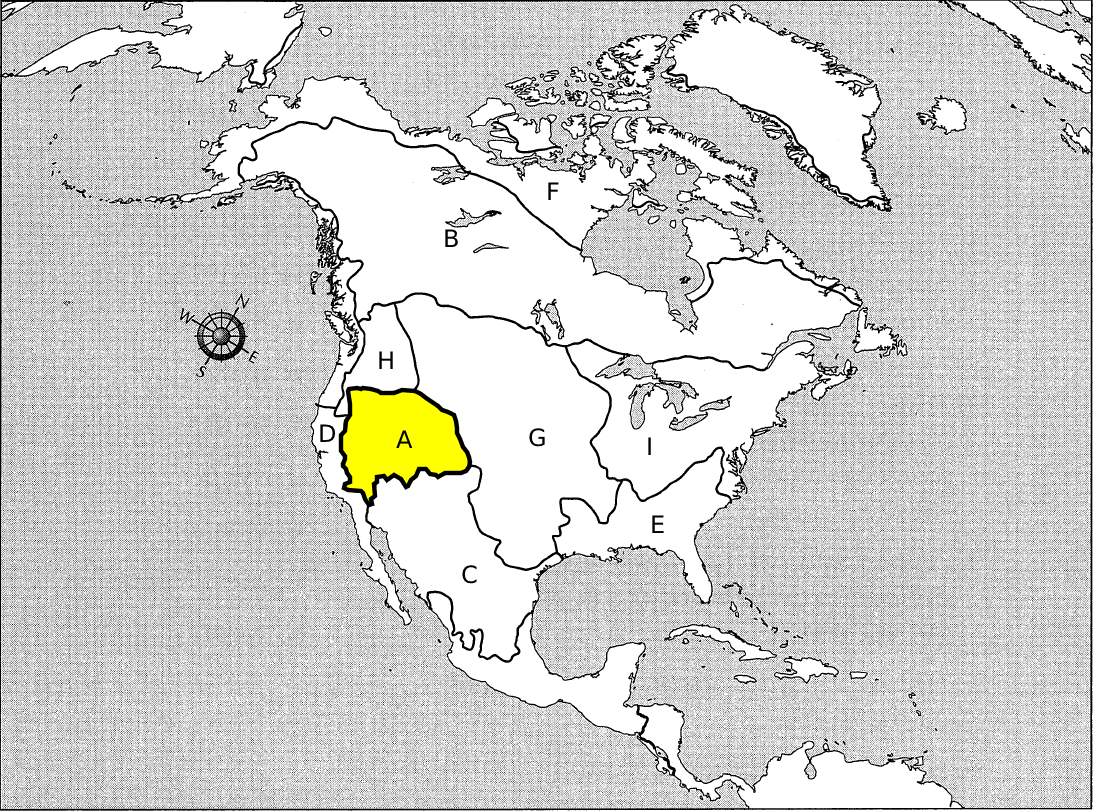
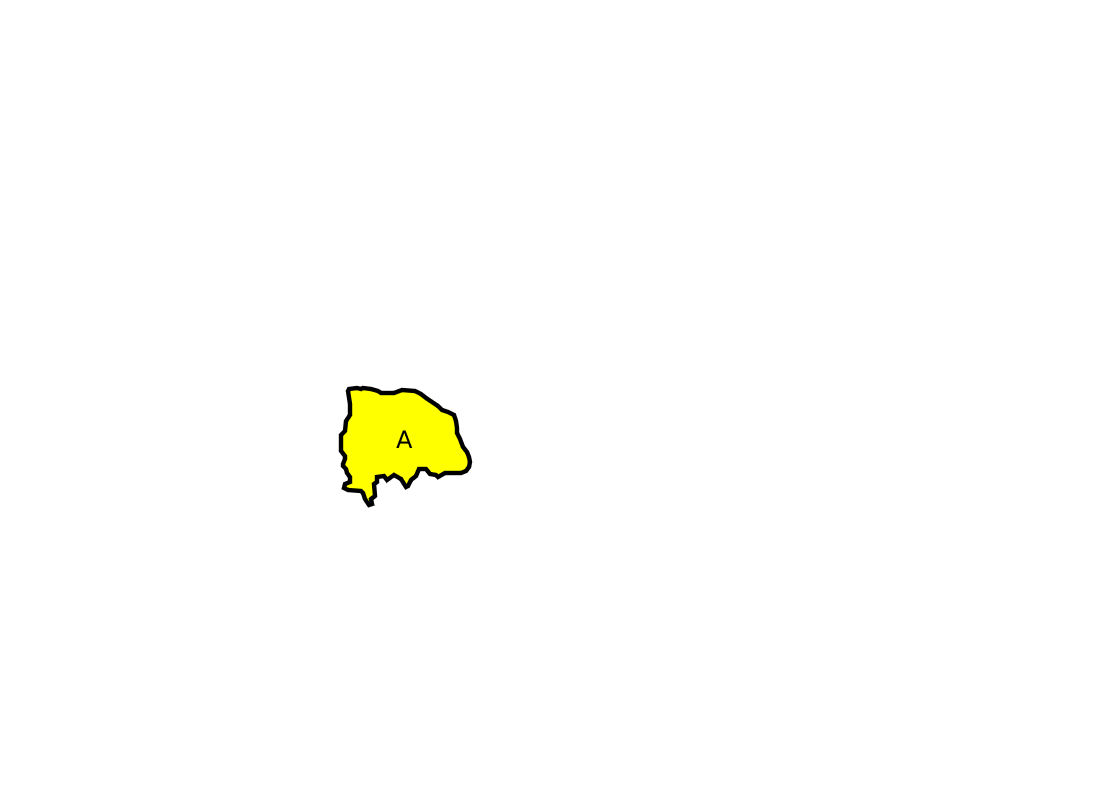
Changing images of selected locations
This update changed from using images of the whole map with the location selected to using the base map as a background to transparent PNGs of selected locations.

diff --git a/Map_quiz_6/Map_quiz_6.html b/Map_quiz_6/Map_quiz_6.html
@@ -3,27 +3,28 @@
   <!--  -->
 <head>
   <meta charset="utf-8">
-  <meta name="veiwport" content="width=device.width, initial-scale=1">
+  <meta name="viewport" content="width=device-width, initial-scale=1.0">
   <link rel="stylesheet" href="../Map_quiz_style.css">
   <title>Map 6: North American Culture Areas</title>
 </head>
 
 <body>
-  <h1>Geography Quiz 6: Civilizations of the Americas</h1>
-  <p><span id="modeIndicator"></span> Instructions:</p>
+  <h1 class="left-space">Geography Quiz 6: Civilizations of the Americas</h1>
+  <p class="left-space"><span id="modeIndicator"></span> Instructions:</p>
   <ul>
     <li>Press 1 through 9 and 0 to select a question, 0 being question 10</li>
     <li>Press A through J to select a location</li>
     <li>Press Enter to pair the selected question with the selected location</li>
   </ul>
-  <div id="Map">
-    <img id ="map" src="./Images/Base Map.png" alt="Map of Ancient World Civilizations">
+  <div id="Map" class="imageWrapper">
+    <img id ="map" class="overlayImage" src="./Images/Base Map.png" alt="Map of Ancient World Civilizations">
+	<img id="selLoc" class="overlayImage" src="" alt="">
   </div>
   
-  <p id="Selected Question"><b>Selected Question: </b><span id="questionText"></span></p>
-  <p id="Selected Location"><b>Selected Location: </b><span id="locationText"></span></p>
+  <p id="Selected Question" class="left-space"><b>Selected Question: </b><span id="questionText"></span></p>
+  <p id="Selected Location" class="left-space"><b>Selected Location: </b><span id="locationText"></span></p>
   
-  <div id="quiz">
+  <div id="quiz" class="left-space">
     <p id="q1"><span id="q1 num">1. </span>_<span id="q1 answer"></span>_<span id="q1 grade"></span></p>
     <p id="q2"><span id="q2 num">2. </span>_<span id="q2 answer"></span>_<span id="q2 grade"></span></p>
     <p id="q3"><span id="q3 num">3. </span>_<span id="q3 answer"></span>_<span id="q3 grade"></span></p>
@@ -98,10 +99,10 @@
   
   // Changes Map image to one that highlights the selected location; changes image's alt text; displays image description
   function changeMap(indexNum) {
-    var map = document.getElementById("map");
+    var map = document.getElementById("selLoc");
     if (indexNum == -1) {
-      map.src = "./Images/Base Map.png";
-      map.alt = "Base Map";
+      map.src = "";
+      map.alt = ""; // Setting alt to "" prevents the broken image icon from being displayed.
       document.getElementById("locationText").innerHTML = "No location is selected";
     }
     else {
@@ -170,7 +171,6 @@
     switch (event.keyCode) {
       // Pair selectedQuestion with selectedLocation
       case 13: // Enter
-        console.log("Before: " + isAnsCorrect);
         if (selectedQuestion != -1) {
           if (selectedLocation == -1) {
             document.getElementById(qArray[selectedQuestion].qAnsId).innerHTML = "";
@@ -184,7 +184,6 @@
             reportCorrect(selectedQuestion);
           }
         }
-        console.log("After: " + isAnsCorrect);
         break;
 
       // Selecting the active question with 1-9, 0 for 1-10

diff --git a/Map_quiz_6/Map_quiz_6_Study.html b/Map_quiz_6/Map_quiz_6_Study.html
@@ -3,27 +3,28 @@
   <!--  -->
 <head>
   <meta charset="utf-8">
-  <meta name="veiwport" content="width=device.width, initial-scale=1">
+  <meta name="viewport" content="width=device-width, initial-scale=1.0">
   <link rel="stylesheet" href="../Map_quiz_style.css">
   <title>Map 6: North American Culture Areas</title>
 </head>
 
 <body>
-  <h1>Geography Quiz 6: Civilizations of the Americas</h1>
-  <p><span id="modeIndicator"></span> Instructions:</p>
+  <h1 class="left-space">Geography Quiz 6: Civilizations of the Americas</h1>
+  <p class="left-space"><span id="modeIndicator"></span> Instructions:</p>
   <ul>
     <li>Press 1 through 9 and 0 to select a question, 0 being question 10</li>
     <li>Press A through J to select a location</li>
     <li>Press Enter to pair the selected question with the selected location</li>
   </ul>
-  <div id="Map">
-    <img id ="map" src="./Images/Base Map.png" alt="Map of Ancient World Civilizations">
+  <div id="Map" class="imageWrapper">
+    <img id ="map" class="overlayImage" src="./Images/Base Map.png" alt="Map of Ancient World Civilizations">
+	<img id="selLoc" class="overlayImage" src="" alt="">
   </div>
   
-  <p id="Selected Question"><b>Selected Question: </b><span id="questionText"></span></p>
-  <p id="Selected Location"><b>Selected Location: </b><span id="locationText"></span></p>
+  <p id="Selected Question" class="left-space"><b>Selected Question: </b><span id="questionText"></span></p>
+  <p id="Selected Location" class="left-space"><b>Selected Location: </b><span id="locationText"></span></p>
   
-  <div id="quiz">
+  <div id="quiz" class="left-space">
     <p id="q1"><span id="q1 num">1. </span>_<span id="q1 answer"></span>_<span id="q1 grade"></span></p>
     <p id="q2"><span id="q2 num">2. </span>_<span id="q2 answer"></span>_<span id="q2 grade"></span></p>
     <p id="q3"><span id="q3 num">3. </span>_<span id="q3 answer"></span>_<span id="q3 grade"></span></p>
@@ -98,10 +99,10 @@
   
   // Changes Map image to one that highlights the selected location; changes image's alt text; displays image description
   function changeMap(indexNum) {
-    var map = document.getElementById("map");
+    var map = document.getElementById("selLoc");
     if (indexNum == -1) {
-      map.src = "./Images/Base Map.png";
-      map.alt = "Base Map";
+      map.src = "";
+      map.alt = ""; // Setting alt to "" prevents the broken image icon from being displayed.
       document.getElementById("locationText").innerHTML = "No location is selected";
     }
     else {
@@ -170,7 +171,6 @@
     switch (event.keyCode) {
       // Pair selectedQuestion with selectedLocation
       case 13: // Enter
-        console.log("Before: " + isAnsCorrect);
         if (selectedQuestion != -1) {
           if (selectedLocation == -1) {
             document.getElementById(qArray[selectedQuestion].qAnsId).innerHTML = "";
@@ -184,7 +184,6 @@
             reportCorrect(selectedQuestion);
           }
         }
-        console.log("After: " + isAnsCorrect);
         break;
 
       // Selecting the active question with 1-9, 0 for 1-10

diff --git a/Map_quiz_style.css b/Map_quiz_style.css
@@ -6,3 +6,22 @@
 .bolded {
   font-weight: bold;
 }
+
+/* This class was created because the student would often click outside of the window when trying to select text to be 
+   read by the screen reader. */
+.left-space {
+	margin-left: 10px;
+}
+
+/* imageWrapper is used for the div that has overlaying map images. */
+.imageWrapper {
+	position: relative;
+	height: 811px;
+	width: 1093px;
+}
+
+/* overlayImage is applied to images that are overlaying and in a div with the imageWrapper class. */
+.overlayImage {
+  position: absolute;
+  top: 0;
+}
